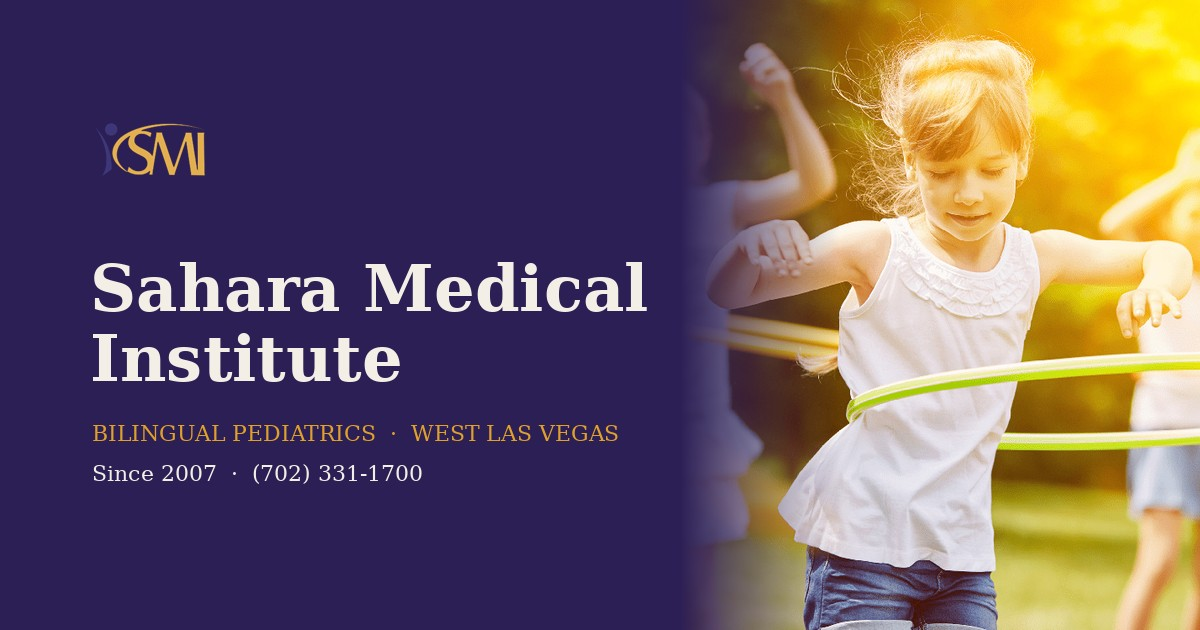
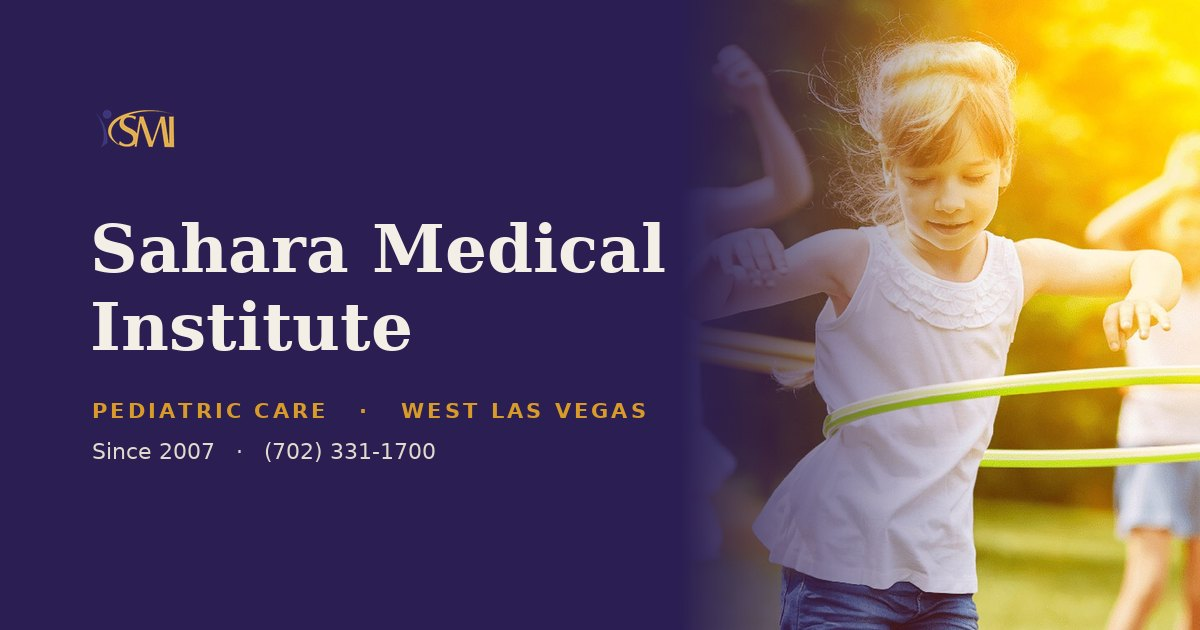
v4.8: new on-brand OG share card (no 'bilingual', controlled layout); SEO pass - concise keyword-first title, synced meta/og/twitter descriptions, fix invalid JSON-LD @type (Pediatric->MedicalClinic), add aggregateRating + real reviews, OG cache-bust

diff --git a/index.html b/index.html
@@ -3,8 +3,8 @@
 <head>
     <meta charset="UTF-8">
     <meta name="viewport" content="width=device-width, initial-scale=1.0, viewport-fit=cover">
-    <title>Sahara Medical Institute | Bilingual Pediatrician in West Las Vegas (702) 331-1700</title>
-    <meta name="description" content="Bilingual pediatric care in West Las Vegas since 2007. Newborns through age 21, well-child visits, sick walk-ins, telemedicine. Three providers, 16 insurance plans. (702) 331-1700.">
+    <title>Pediatrician in West Las Vegas | Sahara Medical Institute</title>
+    <meta name="description" content="Family pediatric care in West Las Vegas since 2007. Newborns to age 21, well-child visits, sick walk-ins, and telemedicine. Spanish spoken. Call (702) 331-1700.">
     <meta name="keywords" content="pediatrician Las Vegas, bilingual pediatrician Las Vegas, Spanish speaking pediatrician Las Vegas, Sahara Medical Institute, Vegas Pediatrics, newborn care Las Vegas, well-child visits 89146, sick child walk-in Las Vegas, pediatric telemedicine Nevada, sports physical Las Vegas">
     <meta name="geo.position" content="36.1438,-115.2203">
     <meta name="geo.placename" content="Las Vegas, NV">
@@ -13,20 +13,20 @@
     <meta name="robots" content="index, follow">
     <link rel="canonical" href="https://www.saharamedicalinstitute.com/">
 
-    <meta property="og:title" content="Sahara Medical Institute | Bilingual Pediatrician in West Las Vegas">
-    <meta property="og:description" content="Bilingual pediatric care in West Las Vegas since 2007. Newborns through age 21, well-child visits, sick walk-ins, telemedicine. (702) 331-1700.">
-    <meta property="og:image" content="https://crossfiber.github.io/sahara-medical-institute/assets/og-share.jpg">
+    <meta property="og:title" content="Sahara Medical Institute | Pediatric Care in West Las Vegas">
+    <meta property="og:description" content="Family pediatric care in West Las Vegas since 2007. Newborns to age 21, well-child visits, sick walk-ins, and telemedicine. Spanish spoken. Call (702) 331-1700.">
+    <meta property="og:image" content="https://crossfiber.github.io/sahara-medical-institute/assets/og-share.jpg?v=2">
     <meta property="og:image:width" content="1200">
     <meta property="og:image:height" content="630">
-    <meta property="og:image:alt" content="Sahara Medical Institute, bilingual pediatrics in West Las Vegas since 2007">
+    <meta property="og:image:alt" content="Sahara Medical Institute, pediatric care in West Las Vegas since 2007">
     <meta property="og:type" content="website">
     <meta property="og:url" content="https://www.saharamedicalinstitute.com/">
     <meta property="og:site_name" content="Sahara Medical Institute">
     <meta property="og:locale" content="en_US">
     <meta name="twitter:card" content="summary_large_image">
-    <meta name="twitter:title" content="Sahara Medical Institute | Bilingual Pediatrician in West Las Vegas">
-    <meta name="twitter:description" content="Bilingual pediatric care in West Las Vegas since 2007. Newborns through age 21. (702) 331-1700.">
-    <meta name="twitter:image" content="https://crossfiber.github.io/sahara-medical-institute/assets/og-share.jpg">
+    <meta name="twitter:title" content="Sahara Medical Institute | Pediatric Care in West Las Vegas">
+    <meta name="twitter:description" content="Family pediatric care in West Las Vegas since 2007. Newborns to age 21, well-child visits, sick walk-ins, and telemedicine. Spanish spoken. Call (702) 331-1700.">
+    <meta name="twitter:image" content="https://crossfiber.github.io/sahara-medical-institute/assets/og-share.jpg?v=2">
 
     <link rel="icon" href="assets/logo-mark.png">
     <link rel="apple-touch-icon" href="assets/logo-mark.png">
@@ -1218,7 +1218,7 @@
   "logo": "https://crossfiber.github.io/sahara-medical-institute/assets/logo-wordmark.png",
   "founder": { "@type": "Person", "name": "Francisco Peraza, MD" },
   "foundingDate": "2007",
-  "description": "Bilingual pediatric primary care in West Las Vegas since 2007. Newborns through age 21, well-child visits, sick walk-ins, telemedicine, and sixteen insurance plans accepted.",
+  "description": "Family pediatric care in West Las Vegas since 2007. Newborns through age 21, well-child visits, sick walk-ins, telemedicine, and sixteen insurance plans accepted. Spanish spoken every day.",
   "sameAs": [
     "https://www.facebook.com/SaharaMedicalinstitute",
     "https://www.instagram.com/vegaspediatrics",
@@ -1238,7 +1238,8 @@
 <script type="application/ld+json">
 {
   "@context": "https://schema.org",
-  "@type": "Pediatric",
+  "@type": "MedicalClinic",
+  "description": "Family pediatric care in West Las Vegas since 2007. Newborns through age 21, well-child visits, sick walk-ins, telemedicine, and sixteen insurance plans accepted. Spanish spoken every day.",
   "name": "Sahara Medical Institute",
   "alternateName": "Vegas Pediatrics",
   "url": "https://www.saharamedicalinstitute.com/",
@@ -1284,6 +1285,11 @@
     {"@type":"Physician","name":"Francisco Peraza, MD","medicalSpecialty":"Pediatric"},
     {"@type":"Person","name":"Katelyn E. Heck, RN, MSN, CRNP-PNP"},
     {"@type":"Physician","name":"Marlon A. Mendoza, MD","medicalSpecialty":"Pediatric"}
+  ],
+  "aggregateRating": {"@type":"AggregateRating","ratingValue":"5","reviewCount":"2","bestRating":"5"},
+  "review": [
+    {"@type":"Review","reviewRating":{"@type":"Rating","ratingValue":"5","bestRating":"5"},"author":{"@type":"Person","name":"Ana C."},"reviewBody":"The best pediatrician. They help you with all your questions about the health of your children."},
+    {"@type":"Review","reviewRating":{"@type":"Rating","ratingValue":"5","bestRating":"5"},"author":{"@type":"Person","name":"Lupita G."},"reviewBody":"My children's pediatrician is a great doctor. I recommend Dr. Francisco Peraza."}
   ]
 }
 </script>
